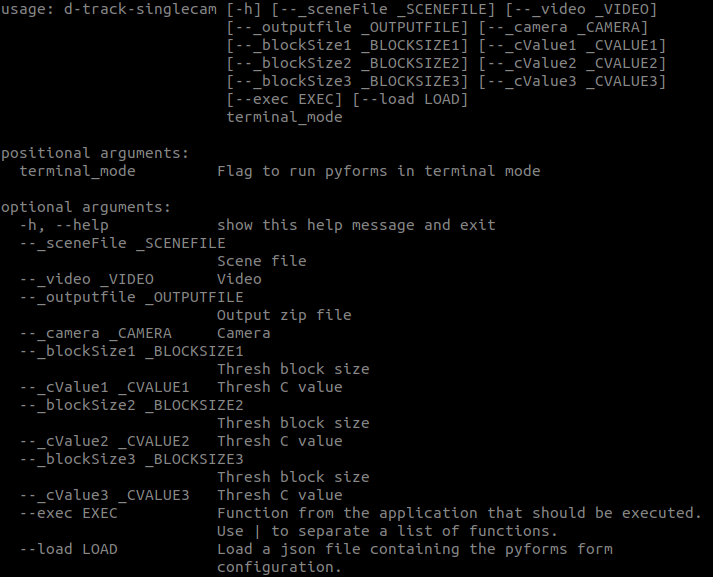
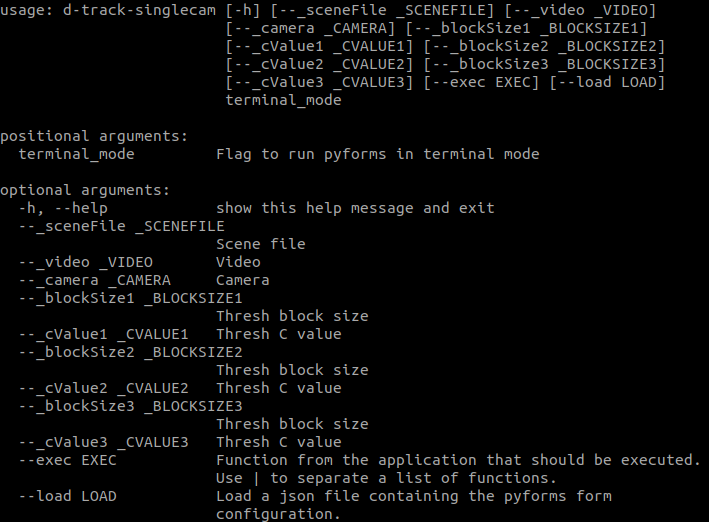
.

diff --git a/dolphintracker/singlecam_tracker/singlecam_tracker.py b/dolphintracker/singlecam_tracker/singlecam_tracker.py
@@ -34,13 +34,13 @@ class SingleCamTracker(BaseWidget):
 		self._player 		= ControlPlayer('Image')
 		self._range 	 	= ControlBoundingSlider('Frames to analyse', default=[0, 100], enabled=False)
 
-		self._blockSize1 	= ControlSlider('Thresh block size', default=193, minimum=1, maximum=1001)
+		self._blockSize1 	= ControlSlider('Thresh block size', default=193, minimum=2, maximum=1001)
 		self._cValue1 		= ControlSlider('Thresh C value',	 default=284, minimum=0, maximum=500)
 
-		self._blockSize2 	= ControlSlider('Thresh block size', default=463, minimum=1, maximum=1001)
+		self._blockSize2 	= ControlSlider('Thresh block size', default=463, minimum=2, maximum=1001)
 		self._cValue2 		= ControlSlider('Thresh C value', 	 default=289, minimum=0, maximum=500)
 		
-		self._blockSize3 	= ControlSlider('Thresh block size', default=910, minimum=1, maximum=1001)
+		self._blockSize3 	= ControlSlider('Thresh block size', default=910, minimum=2, maximum=1001)
 		self._cValue3 		= ControlSlider('Thresh C value', 	 default=288, minimum=0, maximum=500)
 	
 		self._exc_btn 		= ControlButton('Run')

diff --git a/docs/source/user-manual/how-to-use.rst b/docs/source/user-manual/how-to-use.rst
@@ -35,6 +35,7 @@ d-tracker-singlecam
 ___________________________
 
 This application is used to segment the images of each camera and find the dolphin in the pool.
+Select the threshold values for each color channel. Try to paint only the dolphin with much colors you can.
 
 .. image:: /_static/singlecam.png
 
@@ -45,7 +46,6 @@ Scene file 				OBJ file describing the pool. This file is generated by the py3ds
 Video					Video file captured with a camera.
 Frames range			Used to select range of the frames to analyse.
 Camera 					Name given to the camera on the py3dscene-editor application.
-Output zip file 		Name of the output zip file.
 Thresh block size 		Parameter of the cv2.adaptiveThreshold for the blue component of each frame.
 Thresh C value 			Parameter of the cv2.adaptiveThreshold for the blue component of each frame.
 Thresh block size 		...
